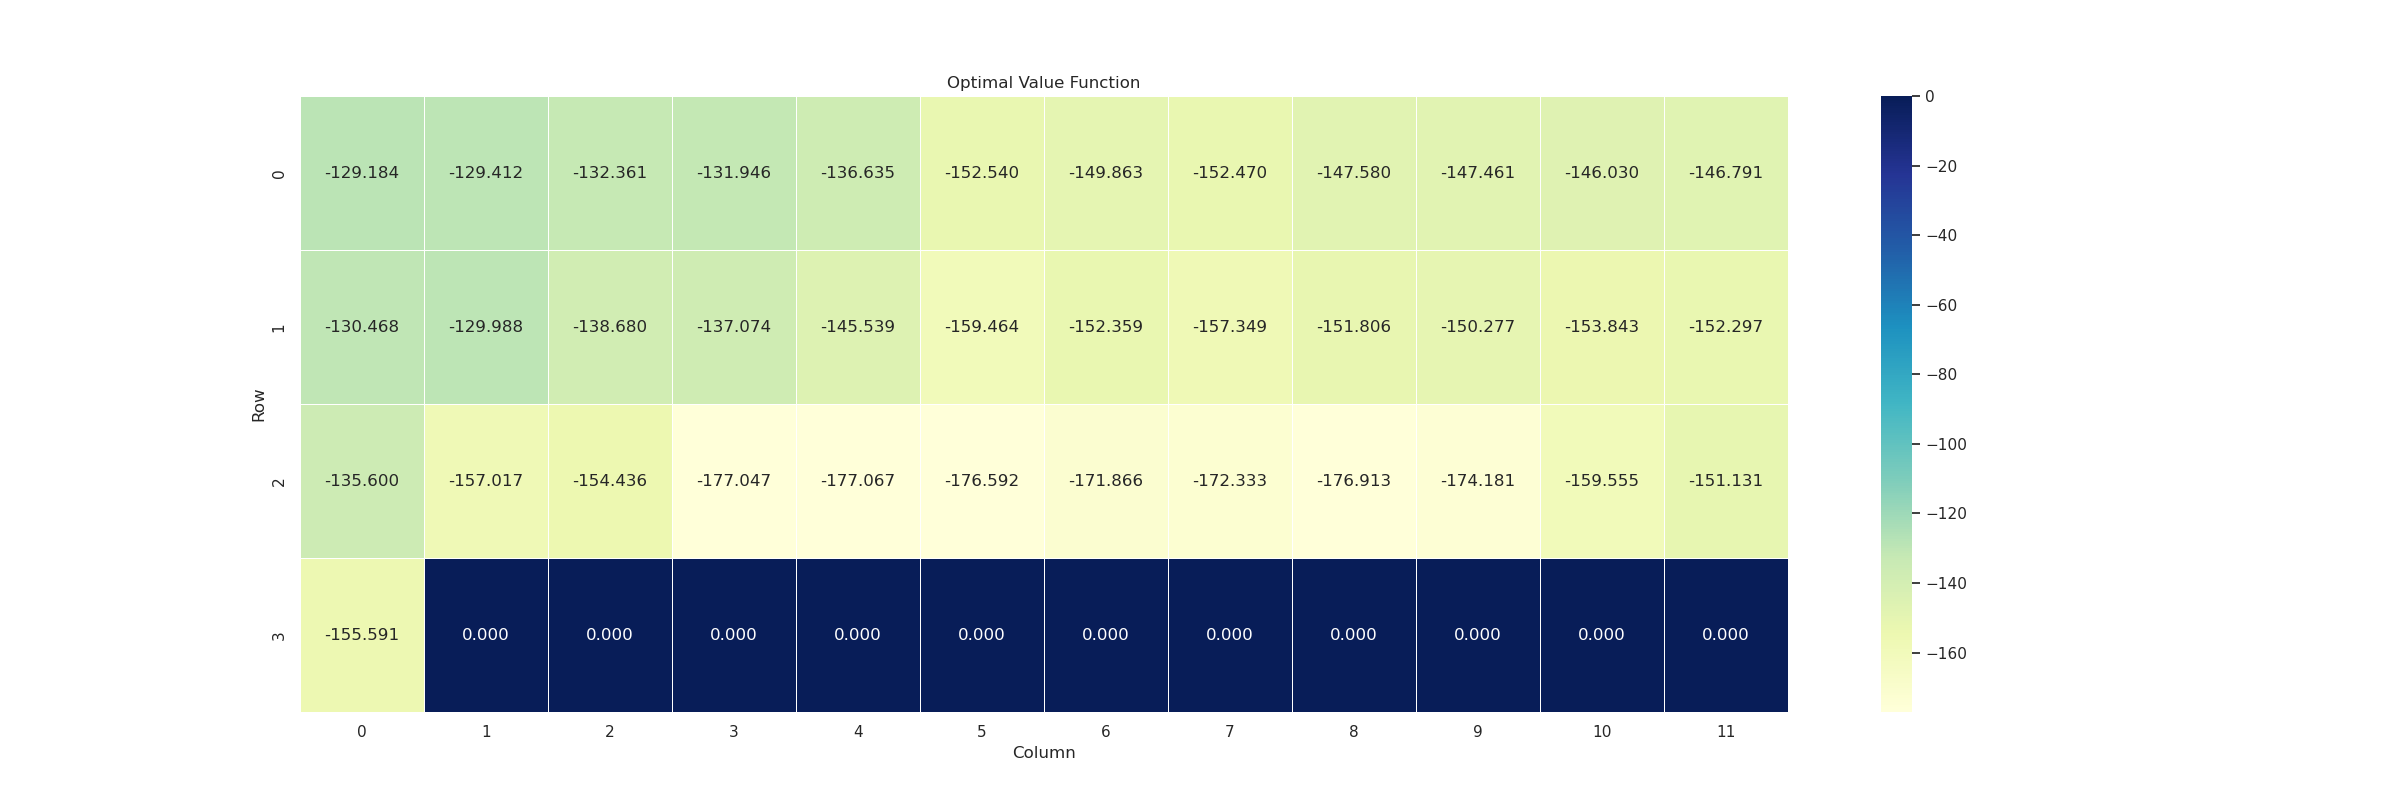
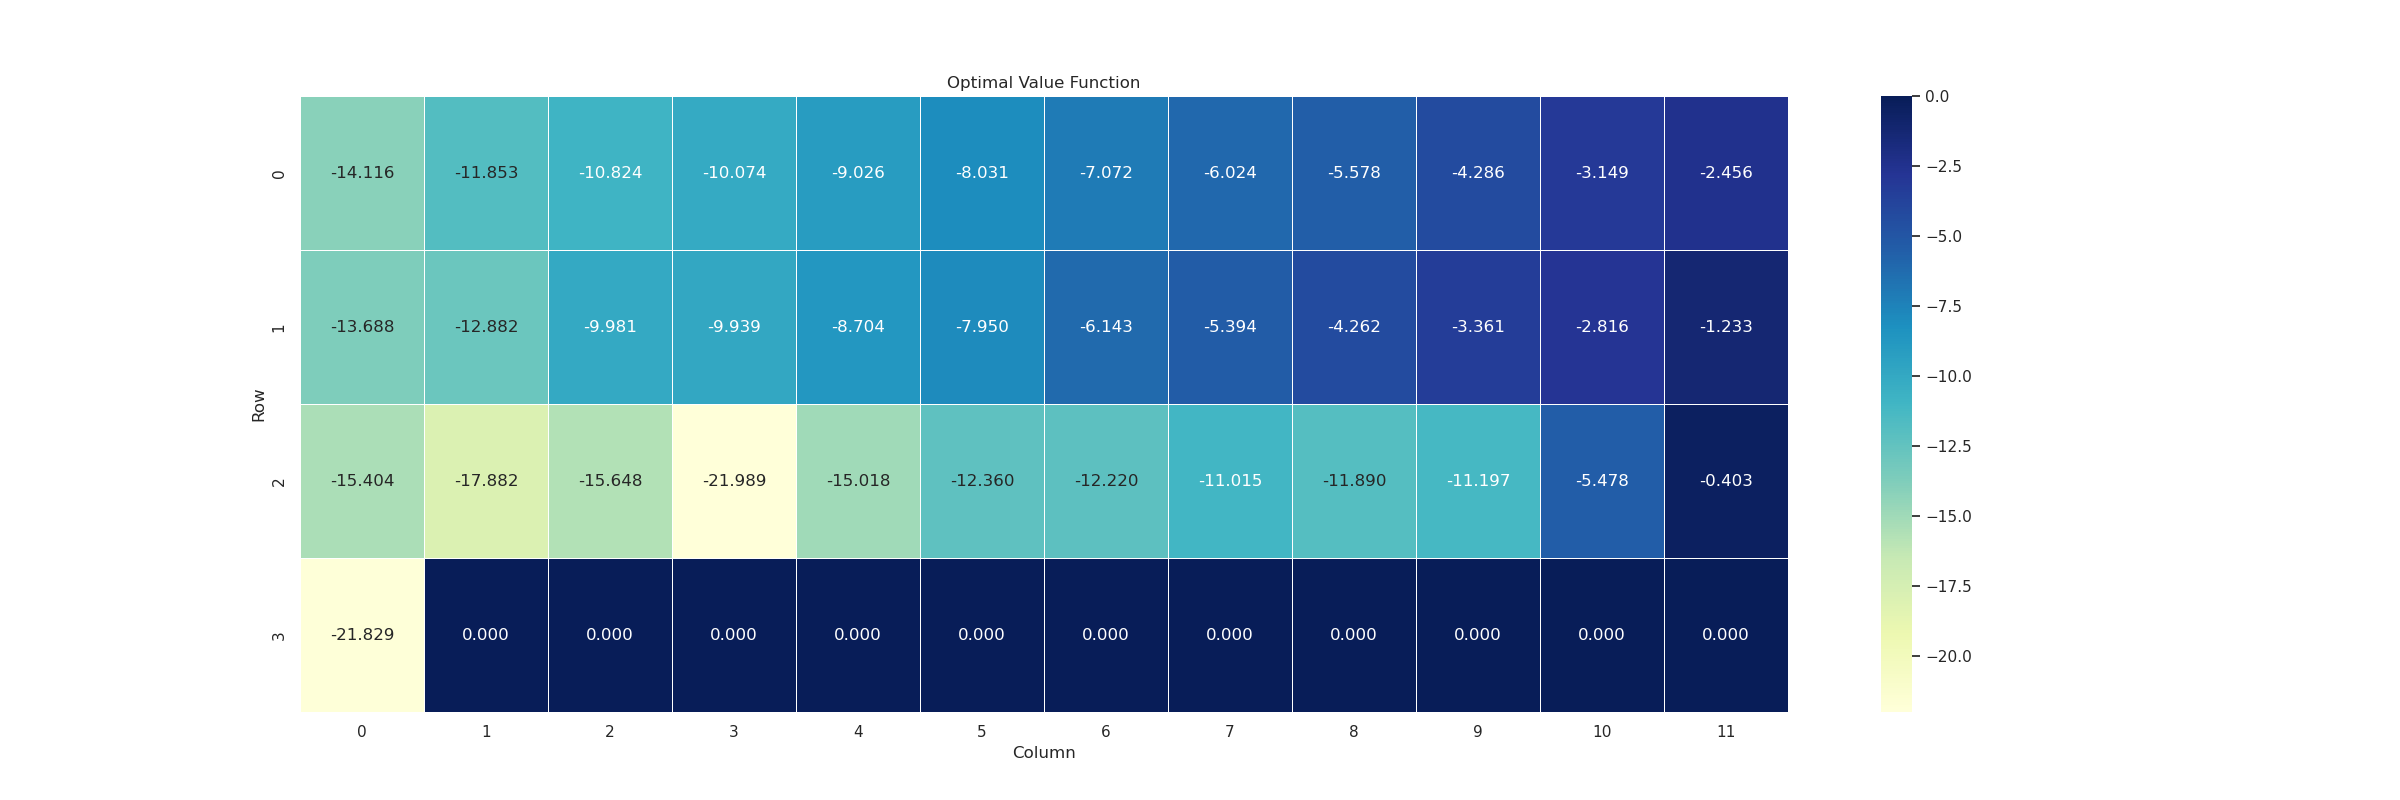
n-step q-learning added...

diff --git a/DynamicProgramming/cliff_q_learning_nstep.py b/DynamicProgramming/cliff_q_learning_nstep.py
@@ -1,0 +1,244 @@
+#########################################################################################
+##                                                                                     ##
+##                                Mohammad Hossein  Amini                              ##
+##                               Title: Cliff - Q Learning                             ##
+##                                   Date: 2023/08/21                                  ##
+##                                                                                     ##
+#########################################################################################
+
+##  Description: 
+
+
+import matplotlib.pyplot as plt
+import gymnasium as gym
+import seaborn as sns
+import numpy as np
+from collections import Counter
+sns.set_theme()
+plt.rcParams['font.family'] = 'DejaVu Sans'
+
+def isForbidden(s):
+    return s in [37, 38, 39, 40, 41, 42, 43, 44, 45, 46]
+
+def state2Coord(s):
+    return s // 12, s % 12
+
+def coord2State(r, c):
+    return r * 12 + c
+
+def isValid(r, c):
+    if r < 0 or r > 3:
+        return False 
+    if c < 0 or c > 11:
+        return False 
+    return True
+
+def neighbours(s):
+    n = list(set([nextState(s, a) for a in range(4)]))
+    n = list(filter(lambda x: (isValid(*state2Coord(x))), n))
+    return n
+
+def nextState(s, a):
+    r, c = state2Coord(s)
+    r_prime, c_prime = r, c
+    if a == 0:  ##  up...
+        r_prime = r - 1
+    elif a == 1:  ##  right...
+        c_prime = c + 1
+    elif a == 2:  ##  down...
+        r_prime = r + 1
+    elif a == 3:  ## left...
+        c_prime = c - 1
+    if not isValid(r_prime, c_prime):
+        r_prime, c_prime = r, c
+    return coord2State(r_prime, c_prime)
+
+def nextReward(s, a):
+    s_prime = nextState(s, a)
+    return -100 if isForbidden(s_prime) else (0 if s_prime == 47 else -1)
+
+def p(s_prime, r, s, a):
+    s_next = nextState(s, a)
+    r_next = nextReward(s, a)
+    return 1 if (s_prime, r) == (s_next, r_next) else 0
+
+
+def pi(a, s, probs=np.ones((48, 4)) * 0.25):    
+    return probs[s][a]
+
+
+def visualize(v):
+    v_vis = np.zeros((4, 12), float)
+    for i in range(4):
+        for j in range(12):
+            v_vis[i, j] = v[i * 12 + j]
+    plt.figure(figsize=(24, 8))
+    sns.heatmap(v_vis, annot=True, fmt='.3f', linewidths=.5, cmap='YlGnBu')
+    plt.title('Optimal Value Function')
+    plt.xlabel('Column')
+    plt.ylabel('Row')
+    plt.savefig('value_mc.png')
+    plt.show()
+    plt.close('all')
+
+def visualizePolicy(q):
+    ##  Chars for up, right, down, left, circle are...
+    chars = ['\u2191', '\u2192', '\u2193', '\u2190', '\u25CB']
+    actions = np.full((4, 12), chars[4], dtype=str)
+    for s in range(37):
+        qmax = np.max(q[s])
+        a_max = [a for a in range(4) if q[s, a] == qmax]
+        if len(a_max) == 1:
+            actions[state2Coord(s)] = chars[a_max[0]]
+        elif len(a_max) == 2:
+            if 0 in a_max and 1 in a_max:
+                actions[state2Coord(s)] = '\u2197'
+            elif 1 in a_max and 2 in a_max:
+                actions[state2Coord(s)] = '\u2198'
+            elif 2 in a_max and 3 in a_max:
+                actions[state2Coord(s)] = '\u2199'
+            elif 3 in a_max and 0 in a_max:
+                actions[state2Coord(s)] = '\u2196' #  chars[3] + chars[0]
+            elif 0 in a_max and 2 in a_max:
+                actions[state2Coord(s)] = chars[4] #  chars['lr']
+            elif 1 in a_max and 3 in a_max:
+                actions[state2Coord(s)] = chars[4] #  chars['ud']
+        else:
+            actions[state2Coord(s)] = chars[4]
+    
+    plt.figure(figsize=(24, 8))
+    actions_arr = [[100 for _ in range(12)] for _ in range(4)]
+    sns.heatmap(actions_arr, annot=actions, fmt='s', linewidths=.5, annot_kws={'fontsize':28})
+    plt.title('Optimal Policy')
+    plt.xlabel('Column')
+    plt.ylabel('Row')
+    plt.savefig('policy_q_learning.png')
+    plt.show()
+    plt.close('all')
+
+
+def isTerminated(s, r):
+    return True if r == 0 or r == -100 else False
+
+class MHAgent:
+    def __init__(self, gamma=1, eps=0.5, alpha=0.5, n=1):
+        self.hist_s = []
+        self.hist_a = []
+        self.hist_r = []
+        self.hist_s_prime = []
+        self.hist_done = []
+        self.g = np.zeros((48,4))
+        self.q = np.zeros_like(self.g)
+        self.N = Counter()
+        self.v = np.zeros((48,))
+        self.gamma = gamma
+        self.probs = np.ones((48, 4)) * 0.25
+        self.eps = eps
+        self.alpha = alpha
+        self.n = n
+        print('Agent created...')
+
+    def updateBuffer(self, s, a, s_prime, r, done, alpha=None):
+        if s_prime == 47:
+            r = 0
+        self.hist_s.append(s)
+        self.hist_a.append(a)
+        self.hist_s_prime.append(s_prime)
+        self.hist_r.append(r)
+        self.hist_done.append(done)
+        ##  Update value if done...
+        t = len(self.hist_s) - self.n
+        if t >= 0:
+            self.v, self.q = self.updateQ(t, self.n)
+        if done:
+            for i in range(1, self.n):
+                if len(self.hist_s) - i >= 0:
+                    self.v, self.q = self.updateQ(len(self.hist_s)-i, i)
+            self.clearBuffer()
+        self.improvePolicy()
+        return self.v, self.q
+    
+    def getReward(self, t):
+        return self.hist_r[t] if t in range(len(self.hist_r)) else 0
+
+    def findG(self, t, n=1):
+        g = sum([self.getReward(i) * self.gamma ** (i-t) for i in range(t, t+n)])
+        if t+n <= len(self.hist_s):
+            g += (self.gamma ** n) * max([self.q[self.hist_s_prime[t+n-1], a] for a in range(4)])
+        return g
+
+    def clearBuffer(self):
+        self.hist_s = []
+        self.hist_a = []
+        self.hist_r = []
+        self.hist_s_prime = []
+        self.hist_done = []
+            
+
+    def updateQ(self, t, n, alpha=None):
+        alpha = self.alpha if alpha is None else alpha
+        s, a = self.hist_s[t], self.hist_a[t]
+        g = self.findG(t, n)
+        self.q[s, a] = self.q[s, a] + alpha * (g - self.q[s, a])
+        self.v[s] = sum([self.probs[s, a] * self.q[s, a] for a in range(4)])
+        return self.v, self.q
+    
+    def improvePolicy(self):
+        qmax = np.max(self.q, axis=1)
+        a_max = ~(self.q - np.expand_dims(qmax, 1)).astype(bool)
+        n_a_max = np.sum(a_max, axis=1)
+        for s in range(37):
+            if n_a_max[s] != 4:
+                p_max = (1 - self.eps) / n_a_max[s]
+                p_nonmax = self.eps / (4 - n_a_max[s])
+            else:
+                p_max = 0.25
+                p_nonmax = 0
+            ps = list(map(lambda a: p_max if a_max[s, a] else p_nonmax, range(4)))
+            self.probs[s] = np.array(ps)
+        return self.probs
+    
+    def act(self, s):
+        return np.random.choice(4, p=self.probs[s])
+    
+
+
+mha = MHAgent(gamma=0.99, eps=0.1, alpha=0.8, n=2) 
+# env = gym.make('CliffWalking-v0', render_mode='human')
+env = gym.make('CliffWalking-v0')
+observation, info = env.reset()
+action_dict = {0: 'up', 1: 'right', 2: 'down', 3: 'left'}
+
+t = 0
+probs = np.ones((48, 4)) * 0.25
+Gs = []
+G = 0
+while True:
+    action = mha.act(observation)
+    old_observation = observation
+    observation, reward, terminated, truncated, info = env.step(action)
+    reward = 0 if observation == 47 else reward
+    G += reward
+    mha.updateBuffer(old_observation, action, observation, reward, done:=isTerminated(observation, reward))
+    if terminated or truncated or done:
+        observation, info = env.reset()  
+        Gs.append(G)
+        G = 0  
+    if t and not t % 1000:
+        print(f'Timestep: {t}, MeanG: {np.mean(Gs[-10:])}')
+        # mha.improvePolicy()
+        if not t % 100000:
+            visualizePolicy(mha.q)
+            visualize(mha.v)
+            command = input('What to do?')
+            if command.lower() in ['exit', 'q']:
+                break
+    t += 1
+
+
+plt.figure()
+plt.plot(range(len(Gs)), Gs, 'r-o')
+plt.savefig('cliff_mc_returns.png')
+plt.show()
+breakpoint()
+env.close()
